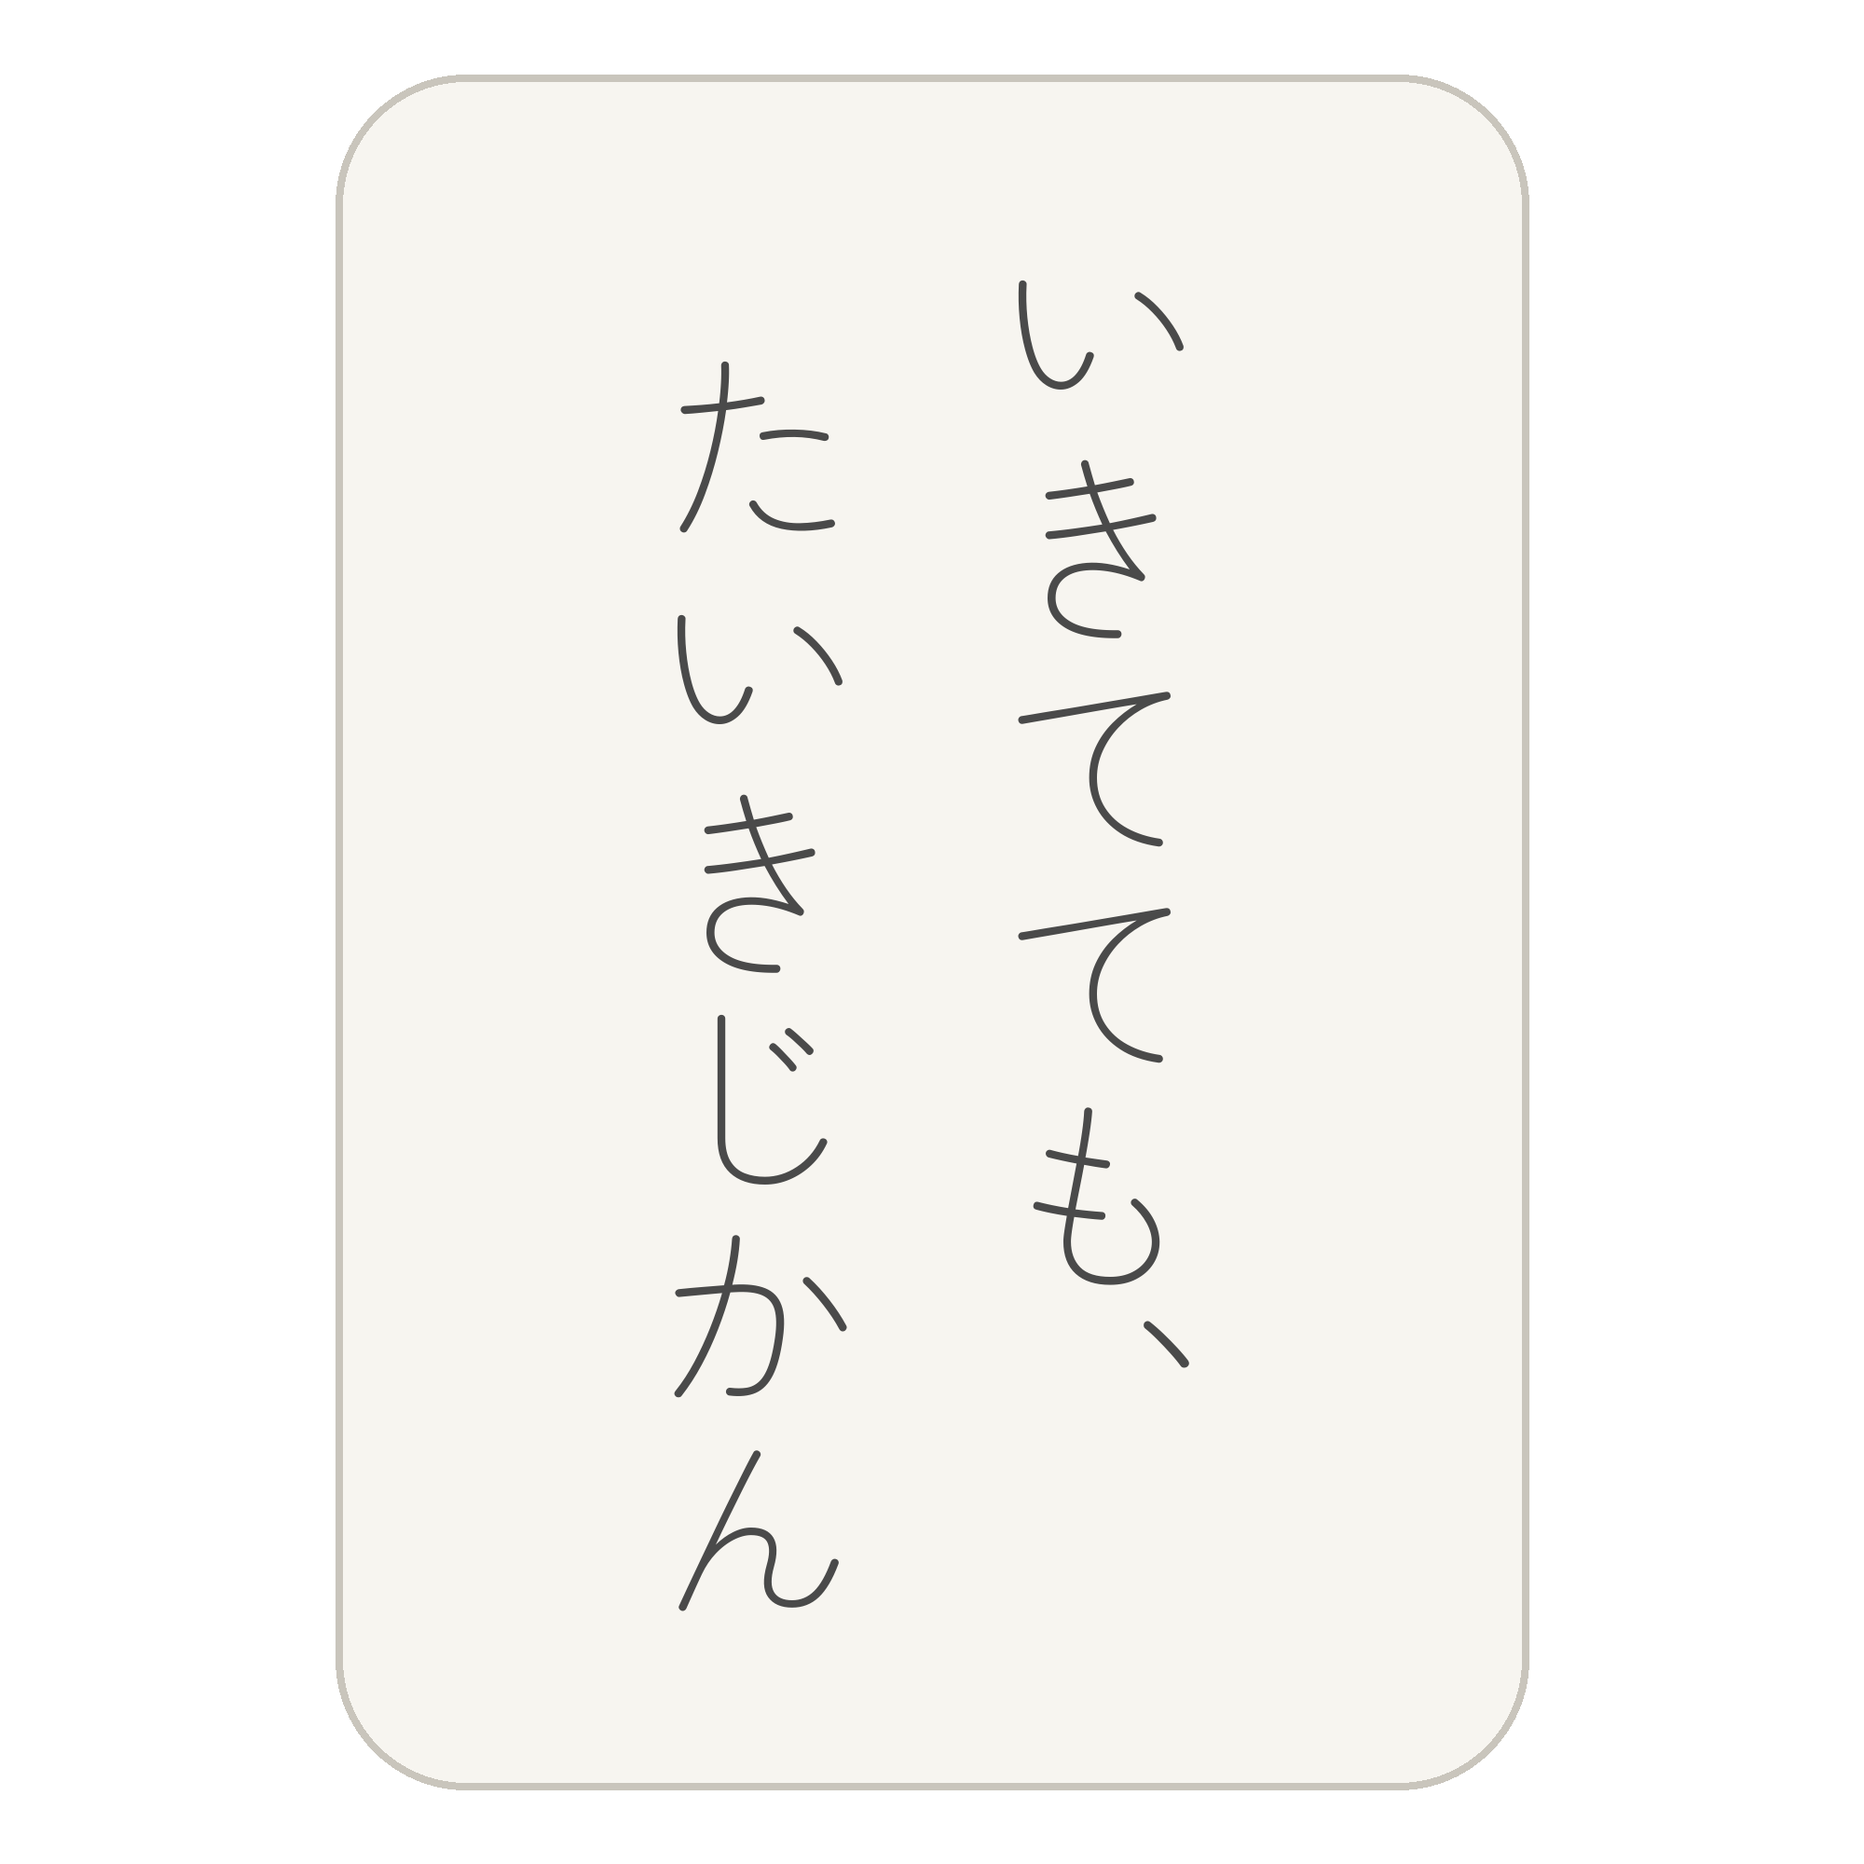
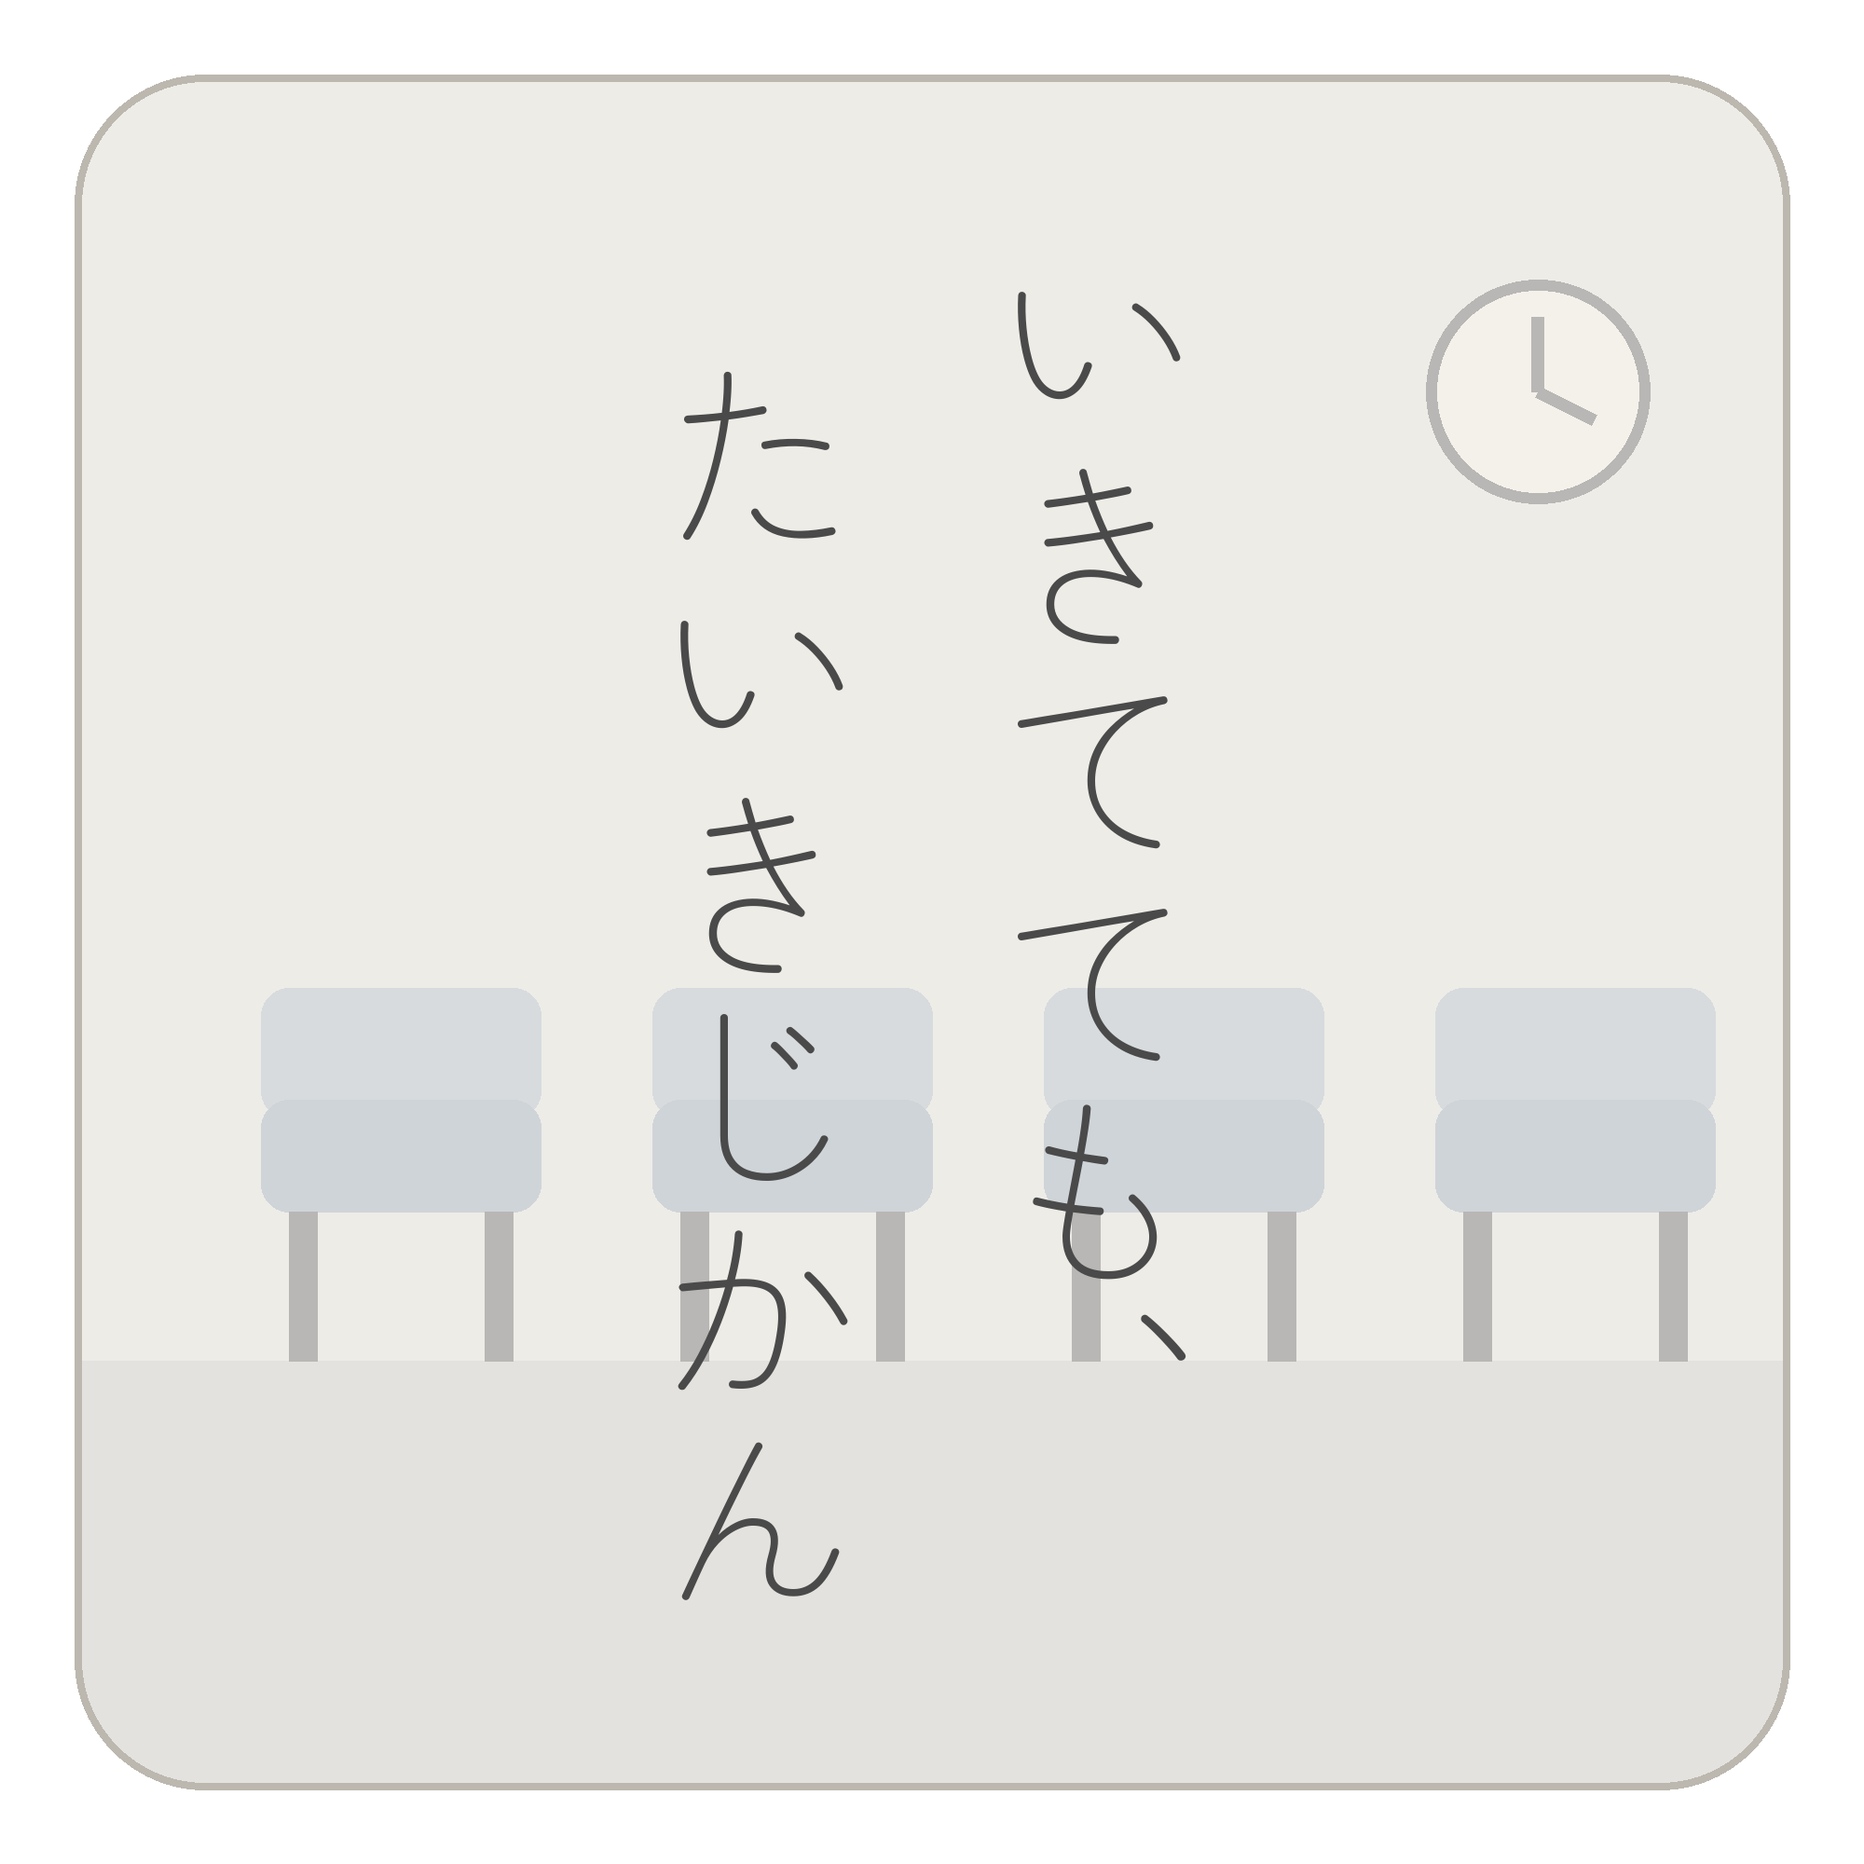
各フレーズに合わせた背景イラストの上に縦書きの言葉を重ねるデザインに変更
フラットな情景イラスト(家と月夜/布団/ソファ/顔/ビール/
カレンダー/電車/吹き出し/待合室)を角丸正方形いっぱいに描き、
生成りの半透明スクリムで文字の可読性を確保した上に
縦書き2列の言葉を合成。

Claude-Session: https://claude.ai/code/session_01Hth1TDsqnV3mvtVRGZwAwr

diff --git a/stickers/generate.py b/stickers/generate.py
@@ -2,15 +2,16 @@
 """「〜ても、シリーズ」ステッカー入稿データ生成スクリプト
 
 SUZURI入稿用の透過PNG(2000x2000)を stickers/png/ に出力する。
-デザインは縦書き版: 生成り色の縦長角丸台座に、右列→左列の
-2列組みで縦書き(左列は少し下げて句のリズムを作る)。
-縦書きの組版(句読点・拗促音の位置)はlibraqm+フォントの
-縦書き用グリフに任せる。1枚ものなのでカットラインは外周1本。
+デザインは背景イラスト版: 各フレーズに合わせたフラットな
+情景イラストを角丸正方形いっぱいに描き、生成りの薄いスクリムを
+かけて、その上に縦書き2列の言葉を重ねる。1枚ものなので
+カットラインは外周1本。
 フォント: Zen Maru Gothic Light (SIL Open Font License 1.1 / 商用利用可)
 
 使い方:
     python3 stickers/generate.py
 """
+import math
 import os
 import urllib.request
 
@@ -23,19 +24,28 @@ FONT_URL = (
 FONT_CACHE = os.path.join(os.path.dirname(__file__), "ZenMaruGothic-Light.ttf")
 
 CANVAS = 2000          # SUZURI推奨の大判サイズ
-COLOR = (74, 74, 74, 255)  # 濃いめのグレー1色
+COLOR = (74, 74, 74, 255)  # 濃いめのグレー1色(文字)
 
-# 台座: 生成りの縦長角丸長方形(シリーズ共通)
-BASE_SIZE = (1280, 1840)
+BASE_SIZE = (1840, 1840)   # 角丸正方形(イラストを見せるため大きめ)
 BASE_RADIUS = 140
-BASE_FILL = (247, 245, 240, 255)    # 生成り(真っ白より脱力する)
-BASE_BORDER = (201, 197, 188, 255)  # うっすら枠線
+BASE_BORDER = (188, 184, 175, 255)
 BASE_BORDER_W = 8
+SCRIM = (247, 245, 240, 150)  # 文字を立たせる生成りの薄がけ
 
-PAD_Y = 160            # 台座の上下端から文字までの最低余白
+PAD_Y = 170            # 上下端から文字までの最低余白
 MAX_FONT_SIZE = 240    # 短い句が間延びしないよう上限を設ける
 COL_GAP_EM = 1.60      # 右列と左列の中心間隔(フォントサイズ比)
 DROP_EM = 0.55         # 左列(2句目)を下げる量(句のリズム)
+
+# イラストの共通パレット(くすませて文字より前に出さない)
+NAVY = (104, 114, 134)
+NIGHT = (82, 90, 108)
+CREAM = (240, 236, 226)
+PAPER = (230, 225, 214)
+BLUE = (170, 183, 197)
+LIGHT = (236, 219, 170)
+INK = (94, 94, 96)
+WOOD = (198, 182, 158)
 
 STICKERS = [
     ("01-kaettemo", "かえっても、かえりたい"),
@@ -49,6 +59,141 @@ STICKERS = [
     ("09-ikitetemo", "いきてても、たいきじかん"),
 ]
 
+
+# ---------------------------------------------------------------- 情景イラスト
+# 各シーンは1840x1840の不透明な正方形いっぱいに描く
+
+def scene_home(d, s):
+    """夜道から見た我が家: 窓は明るいのに、まだ帰りたい"""
+    d.rectangle((0, 0, s, s), fill=NIGHT)
+    d.ellipse((s - 560, 180, s - 300, 440), fill=LIGHT)  # 月
+    d.rectangle((0, 1450, s, s), fill=(66, 72, 88))       # 地面
+    d.rectangle((260, 980, 940, 1450), fill=(58, 64, 78))  # 家
+    d.polygon([(200, 980), (600, 700), (1000, 980)], fill=(50, 55, 68))  # 屋根
+    d.rectangle((520, 1130, 690, 1310), fill=LIGHT)        # 明かりのついた窓
+    d.rectangle((600, 1130, 610, 1310), fill=(58, 64, 78))  # 窓の桟
+    d.rectangle((520, 1215, 690, 1225), fill=(58, 64, 78))
+
+
+def scene_sleep(d, s):
+    """夜明け前の布団: 何時間寝ても足りない"""
+    d.rectangle((0, 0, s, s), fill=NIGHT)
+    d.ellipse((560, 260, 1280, 980), fill=LIGHT)           # 三日月
+    d.ellipse((420, 220, 1100, 900), fill=NIGHT)
+    for x, y in [(300, 300), (1500, 480), (1620, 200), (240, 720)]:
+        d.ellipse((x, y, x + 26, y + 26), fill=CREAM)      # 星
+    d.rounded_rectangle((240, 1330, 1600, 1620), 60, fill=BLUE)   # 掛け布団
+    d.rounded_rectangle((280, 1190, 700, 1360), 50, fill=CREAM)   # 枕
+
+
+def scene_rest(d, s):
+    """休日のソファ: 座っているだけで日が暮れる"""
+    d.rectangle((0, 0, s, s), fill=PAPER)
+    d.rectangle((0, 1420, s, s), fill=(214, 206, 190))     # 床
+    d.rounded_rectangle((250, 820, 1590, 1180), 70, fill=BLUE)    # 背もたれ
+    d.rounded_rectangle((250, 1100, 1590, 1420), 60, fill=(150, 165, 182))  # 座面
+    d.rounded_rectangle((170, 1000, 330, 1420), 60, fill=BLUE)    # 肘掛け
+    d.rounded_rectangle((1510, 1000, 1670, 1420), 60, fill=BLUE)
+    d.rounded_rectangle((1280, 940, 1420, 1120), 30, fill=WOOD)   # 置きっぱなしのマグ
+    for i, x in enumerate((1320, 1370)):                    # 冷めていく湯気
+        d.arc((x, 800 - i * 30, x + 44, 900 - i * 30), 90, 270, fill=INK, width=8)
+
+
+def scene_face(d, s):
+    """笑顔の練習: 口は覚えたが目が覚えない"""
+    d.rectangle((0, 0, s, s), fill=PAPER)
+    d.ellipse((460, 420, 1380, 1340), fill=LIGHT)          # 顔
+    d.line((700, 800, 850, 800), fill=INK, width=22)       # 死んだ目(横線)
+    d.line((990, 800, 1140, 800), fill=INK, width=22)
+    d.arc((790, 950, 1050, 1150), 20, 160, fill=INK, width=22)  # 笑っている口
+
+
+def scene_beer(d, s):
+    """一杯目: 乾杯の音だけ聞こえて、酔いは来ない"""
+    d.rectangle((0, 0, s, s), fill=(96, 90, 94))
+    d.rectangle((0, 1400, s, s), fill=WOOD)                # カウンター
+    d.rounded_rectangle((660, 640, 1120, 1400), 40, fill=(224, 186, 118))  # ジョッキ
+    for x in (680, 800, 920, 1030):                         # 泡
+        d.ellipse((x, 560, x + 160, 720), fill=CREAM)
+    d.rectangle((660, 680, 1120, 720), fill=CREAM)
+    d.rounded_rectangle((1120, 800, 1280, 1180), 60, outline=(224, 186, 118), width=50)  # 取っ手
+    d.line((760, 760, 760, 1320), fill=(238, 206, 150), width=26)  # グラスのハイライト
+
+
+def scene_friday(d, s):
+    """カレンダーの金曜日: 丸をつけたのに、心が動かない"""
+    d.rectangle((0, 0, s, s), fill=PAPER)
+    d.rounded_rectangle((320, 300, 1520, 1540), 40, fill=CREAM, outline=INK, width=10)
+    d.rectangle((320, 300, 1520, 470), fill=BLUE)          # ヘッダー
+    for i in range(1, 7):                                   # 縦罫(7列)
+        x = 320 + i * (1200 // 7)
+        d.line((x, 470, x, 1540), fill=(200, 195, 184), width=8)
+    for j in range(1, 5):                                   # 横罫(5行)
+        y = 470 + j * (1070 // 5)
+        d.line((320, y, 1520, y), fill=(200, 195, 184), width=8)
+    fx = 320 + 5 * (1200 // 7) + (1200 // 14)               # 金曜の列の2行目
+    fy = 470 + (1070 // 5) + (1070 // 10)
+    d.ellipse((fx - 90, fy - 90, fx + 90, fy + 90), outline=INK, width=16)
+
+
+def scene_train(d, s):
+    """いつもの電車: 進んでいるのは電車であって自分ではない"""
+    d.rectangle((0, 0, s, s), fill=(206, 210, 216))
+    d.rectangle((0, 1360, s, s), fill=(182, 186, 192))     # ホーム
+    d.line((0, 1360, s, 1360), fill=(240, 214, 130), width=24)  # 黄色い線
+    d.rounded_rectangle((80, 760, 1760, 1300), 60, fill=BLUE)   # 車体
+    for x in range(180, 1700, 320):                         # 窓
+        d.rounded_rectangle((x, 850, x + 200, 1030), 30, fill=CREAM)
+    d.rectangle((80, 1120, 1760, 1160), fill=(150, 165, 182))   # 帯
+    for x in (480, 1120):                                   # ドア
+        d.rectangle((x, 840, x + 24, 1300), fill=(150, 165, 182))
+
+
+def scene_talk(d, s):
+    """会議室: 発言はぜんぶ、空中で消える"""
+    d.rectangle((0, 0, s, s), fill=PAPER)
+    bubbles = [(280, 340, 760, 620), (1020, 500, 1560, 800), (520, 900, 1080, 1200)]
+    for i, (x0, y0, x1, y1) in enumerate(bubbles):
+        d.rounded_rectangle((x0, y0, x1, y1), 90, fill=CREAM, outline=INK, width=10)
+        cx = (x0 + x1) // 2
+        tail_y = y1
+        d.polygon([(cx - 40, tail_y), (cx + 40, tail_y), (cx - 10, tail_y + 90)],
+                  fill=CREAM, outline=INK)
+        cy = (y0 + y1) // 2
+        for k in range(3):                                  # 中身は「…」だけ
+            dot = cx - 90 + k * 90
+            d.ellipse((dot - 18, cy - 18, dot + 18, cy + 18), fill=INK)
+
+
+def scene_wait(d, s):
+    """待合室: 呼ばれる予定のない番号を持って座っている"""
+    d.rectangle((0, 0, s, s), fill=(222, 222, 218))
+    d.rectangle((0, 1380, s, s), fill=(200, 200, 196))     # 床
+    for x in range(200, 1500, 420):                         # 並んだ椅子
+        d.rounded_rectangle((x, 980, x + 300, 1120), 30, fill=BLUE)      # 背
+        d.rounded_rectangle((x, 1100, x + 300, 1220), 30, fill=(150, 165, 182))  # 座面
+        d.rectangle((x + 30, 1220, x + 60, 1380), fill=INK)              # 脚
+        d.rectangle((x + 240, 1220, x + 270, 1380), fill=INK)
+    d.ellipse((1450, 220, 1690, 460), fill=CREAM)          # 壁の時計
+    d.ellipse((1450, 220, 1690, 460), outline=INK, width=12)
+    d.line((1570, 340, 1570, 260), fill=INK, width=14)     # 針
+    d.line((1570, 340, 1630, 370), fill=INK, width=14)
+
+
+SCENES = {
+    "01-kaettemo": scene_home,
+    "02-netemo": scene_sleep,
+    "03-yasundemo": scene_rest,
+    "04-warattemo": scene_face,
+    "05-nondemo": scene_beer,
+    "06-kinyobidemo": scene_friday,
+    "07-susundemo": scene_train,
+    "08-shabettemo": scene_talk,
+    "09-ikitetemo": scene_wait,
+}
+
+
+# ---------------------------------------------------------------- 文字と合成
 
 def load_font(size):
     if not os.path.exists(FONT_CACHE):
@@ -83,36 +228,43 @@ def fit_font_size(draw, lines):
 
 def render(slug, text):
     lines = split_lines(text)
-
-    img = Image.new("RGBA", (CANVAS, CANVAS), (0, 0, 0, 0))
-    draw = ImageDraw.Draw(img)
-    size = fit_font_size(draw, lines)
-    font = load_font(size)
-    drop = int(size * DROP_EM)
-
     bw, bh = BASE_SIZE
     bx, by = (CANVAS - bw) // 2, (CANVAS - bh) // 2
-    draw.rounded_rectangle(
-        (bx, by, bx + bw, by + bh),
-        radius=BASE_RADIUS,
-        fill=BASE_FILL,
-        outline=BASE_BORDER,
-        width=BASE_BORDER_W,
-    )
 
-    # 縦書きは右列から読むので、1句目を右・2句目を左に置く
+    # 情景イラストを描いて角丸に切り抜く
+    scene = Image.new("RGB", (bw, bh))
+    SCENES[slug](ImageDraw.Draw(scene), bw)
+    mask = Image.new("L", (bw, bh), 0)
+    ImageDraw.Draw(mask).rounded_rectangle((0, 0, bw, bh), BASE_RADIUS, fill=255)
+
+    img = Image.new("RGBA", (CANVAS, CANVAS), (0, 0, 0, 0))
+    img.paste(scene, (bx, by), mask)
+
+    # 生成りのスクリム(文字の可読性を確保しつつイラストを透かす)
+    overlay = Image.new("RGBA", (CANVAS, CANVAS), (0, 0, 0, 0))
+    ImageDraw.Draw(overlay).rounded_rectangle(
+        (bx, by, bx + bw, by + bh), BASE_RADIUS, fill=SCRIM
+    )
+    img = Image.alpha_composite(img, overlay)
+
+    # 縦書き2列の言葉と枠線(透明レイヤーに描いてから合成)
+    top = Image.new("RGBA", (CANVAS, CANVAS), (0, 0, 0, 0))
+    d = ImageDraw.Draw(top)
+    size = fit_font_size(d, lines)
+    font = load_font(size)
+    drop = int(size * DROP_EM)
     gap = int(size * COL_GAP_EM)
-    h1 = column_height(draw, lines[0], font)
-    h2 = column_height(draw, lines[1], font) + drop
+    h1 = column_height(d, lines[0], font)
+    h2 = column_height(d, lines[1], font) + drop
     y_top = (CANVAS - max(h1, h2)) // 2
-    draw.text(
-        (CANVAS // 2 + gap // 2, y_top),
-        lines[0], font=font, fill=COLOR, direction="ttb", anchor="mt",
-    )
-    draw.text(
-        (CANVAS // 2 - gap // 2, y_top + drop),
-        lines[1], font=font, fill=COLOR, direction="ttb", anchor="mt",
-    )
+    # 縦書きは右列から読むので、1句目を右・2句目を左に置く
+    d.text((CANVAS // 2 + gap // 2, y_top),
+           lines[0], font=font, fill=COLOR, direction="ttb", anchor="mt")
+    d.text((CANVAS // 2 - gap // 2, y_top + drop),
+           lines[1], font=font, fill=COLOR, direction="ttb", anchor="mt")
+    d.rounded_rectangle((bx, by, bx + bw, by + bh), BASE_RADIUS,
+                        outline=BASE_BORDER, width=BASE_BORDER_W)
+    img = Image.alpha_composite(img, top)
 
     out_dir = os.path.join(os.path.dirname(__file__), "png")
     os.makedirs(out_dir, exist_ok=True)
@@ -126,7 +278,6 @@ def preview_sheet():
     cell = 640
     cols = 3
     rows = (len(STICKERS) + cols - 1) // cols
-    # ステッカーの輪郭(カットライン)が見えるよう、台座より暗い背景にする
     sheet = Image.new("RGB", (cell * cols, cell * rows), (206, 203, 197))
     out_dir = os.path.join(os.path.dirname(__file__), "png")
     for i, (slug, _) in enumerate(STICKERS):
